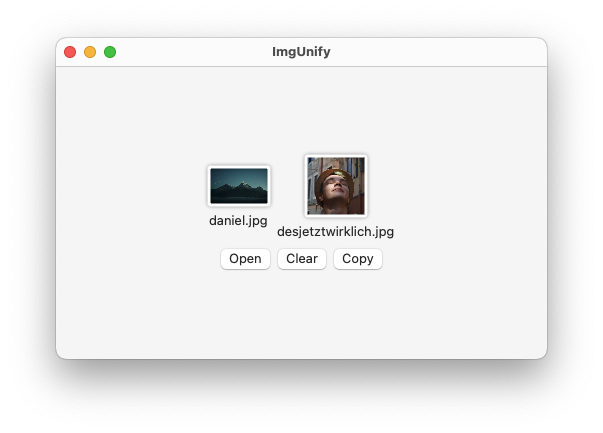
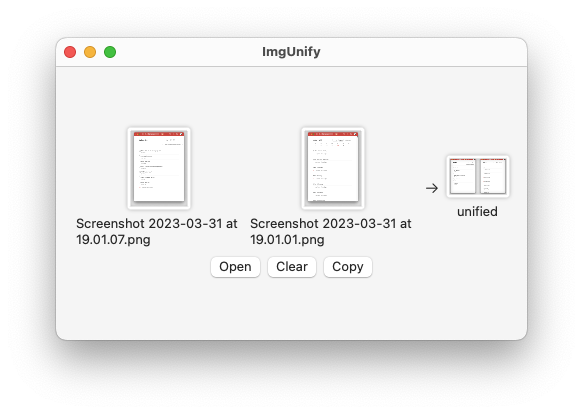
Implement image merging

Changed region(s): [[0.0926, 0.087, 0.9262, 0.8406], [0.7719, 0.3768, 0.8645, 0.5217], [0.741, 0.4348, 0.7719, 0.4638]]

diff --git a/ImgUnify/ContentView.swift b/ImgUnify/ContentView.swift
@@ -17,9 +17,18 @@ struct ContentView: View {
                     .italic()
             } else {
                 HStack {
-                    ForEach(self.files, id: \.self.path) {
-                        FileView(file: $0)
+                    HStack {
+                        ForEach(self.files, id: \.self.name) {
+                            FileView(file: $0)
+                        }
                     }
+                    Image(systemName: "arrow.right")
+                    FileView(
+                        file: File(
+                            name: "unified",
+                            image: unified(images: files.map { $0.image })
+                        )
+                    )
                 }
             }
             HStack {
@@ -32,14 +41,24 @@ struct ContentView: View {
                         self.files.append(contentsOf:
                             panel.urls.map { File(
                                 name: $0.lastPathComponent,
-                                path: $0.relativePath) }
+                                // FIXME: This might fail
+                                image: NSImage(contentsOfFile: $0.relativePath)!
+                            ) }
                         )
                     }
                 }
                 Button("Clear") {
                     self.files = []
                 }
-                Button("Copy") {}
+                .disabled(files.isEmpty)
+                Button("Copy") {
+                    let pb = NSPasteboard.general
+                    pb.clearContents()
+                    // FIXME: Select the correct file
+                    let file = unified(images: self.files.map { $0.image })
+                    pb.writeObjects([file])
+                }
+                .disabled(files.isEmpty)
             }
         }
         .padding()

diff --git a/ImgUnify/File.swift b/ImgUnify/File.swift
@@ -6,8 +6,24 @@
 //
 
 import Foundation
+import SwiftUI
 
 struct File {
     var name: String
-    var path: String
+    var image: NSImage
+}
+
+func unified(images: [NSImage]) -> NSImage {
+    let width = images.map { $0.size.width }.reduce(0, +)
+    let height = images.map { $0.size.height }.max()!
+    let newImage = NSImage(size: NSSize(width: width, height: height))
+
+    newImage.lockFocus()
+    var x: CGFloat = 0
+    for img in images {
+        img.draw(at: NSPoint(x: x, y: 0), from: NSRect(origin: NSPoint.zero, size: img.size), operation: .sourceOver, fraction: 1.0)
+        x += img.size.width
+    }
+    newImage.unlockFocus()
+    return newImage
 }

diff --git a/ImgUnify/FileView.swift b/ImgUnify/FileView.swift
@@ -14,13 +14,11 @@ struct FileView: View {
 
     var body: some View {
         VStack {
-            // Image(systemName: "photo")
-            // Image(data: Data(contentsOf: path))
-            Image(nsImage: NSImage(contentsOfFile: file.path)!)
-                // .antialiased(true)
+            Image(nsImage: file.image)
                 .interpolation(.high)
                 .resizable()
                 .aspectRatio(contentMode: .fit)
+                // FIXME: If the Image is in portrait we should instead limit the height to 60
                 .frame(maxWidth: 60)
                 .cornerRadius(2)
                 .overlay(
